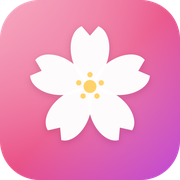
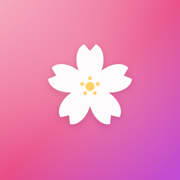
Fix Android installation guide and offline shortcut branding (#21)

diff --git a/e2e/install.spec.ts b/e2e/install.spec.ts
@@ -1,0 +1,92 @@
+import { test, expect } from '@playwright/test';
+
+test.describe('Android install guide and offline branding', () => {
+  test.use({
+    serviceWorkers: 'allow',
+    userAgent: 'Mozilla/5.0 (Linux; Android 15; SM-S921N) AppleWebKit/537.36 (KHTML, like Gecko) Chrome/142.0.0.0 Mobile Safari/537.36',
+    viewport: { width: 360, height: 780 },
+    isMobile: true,
+  });
+
+  test.afterEach(async ({ context }) => {
+    await context.setOffline(false);
+  });
+
+  test.beforeEach(async ({ context }) => {
+    // Installation checks never use member data or write to the backend.
+    await context.route('**/*', route => new URL(route.request().url()).origin === 'http://127.0.0.1:5181'
+      ? route.continue() : route.abort());
+  });
+
+  test('uses the current Chrome menu and preserves the iPhone instructions', async ({ page }) => {
+    await page.goto('/install');
+    await expect(page.getByRole('tab', { name: '안드로이드' })).toHaveAttribute('aria-selected', 'true');
+    await expect(page.getByText('[설치 및 바로가기 만들기]를 누릅니다.', { exact: true })).toBeVisible();
+    await expect(page.getByText(/주소창에 \[오프라인\]/)).toBeVisible();
+    await expect(page.getByText(/회색 V 또는 예전 아이콘/)).toBeVisible();
+    expect(await page.evaluate(() => document.documentElement.scrollWidth <= window.innerWidth)).toBe(true);
+    await page.getByRole('tab', { name: /아이폰/ }).click();
+    await expect(page.getByText('목록을 아래로 내려 [홈 화면에 추가]를 선택합니다.').first()).toBeVisible();
+    await page.screenshot({ path: 'test-results/install-iphone.png', fullPage: true });
+    await page.getByRole('tab', { name: '안드로이드' }).click();
+    await expect(page.getByRole('tab', { name: '안드로이드' })).toHaveAttribute('aria-selected', 'true');
+    await page.screenshot({ path: 'test-results/install-android.png', fullPage: true, animations: 'disabled' });
+  });
+
+  test('manifest and all logo sizes load online and offline without visiting each icon', async ({ page, context }) => {
+    const errors: string[] = [];
+    page.on('pageerror', error => errors.push(error.message));
+    await page.goto('/install');
+    await page.evaluate(async () => {
+      await navigator.serviceWorker.ready;
+      if (!navigator.serviceWorker.controller) await new Promise<void>(resolve =>
+        navigator.serviceWorker.addEventListener('controllerchange', () => resolve(), { once: true }));
+    });
+    const manifestPath = await page.locator('link[rel="manifest"]').getAttribute('href');
+    expect(manifestPath).toBeTruthy();
+    const cdp = await context.newCDPSession(page);
+    const parsed = await cdp.send('Page.getAppManifest');
+    expect(parsed.errors).toEqual([]);
+    const manifest = JSON.parse(parsed.data!);
+    expect(manifest.start_url).toBe('/?source=pwa');
+    expect(manifest.scope).toBe('/');
+    expect(manifest.icons.map((icon: { sizes: string }) => icon.sizes)).toEqual(['192x192', '512x512', '192x192', '512x512']);
+    const linkedIcons = await page.locator('link[rel="icon"], link[rel="apple-touch-icon"]').evaluateAll(links => links.map(link => link.getAttribute('href')!));
+    const paths = [...new Set([manifestPath!, ...linkedIcons, ...manifest.icons.map((icon: { src: string }) => icon.src)])];
+    await expect.poll(() => page.evaluate(async paths => {
+      const cache = await caches.open('ccg-branding-20261115');
+      return (await Promise.all(paths.map(path => cache.match(path)))).every(Boolean);
+    }, paths)).toBe(true);
+    // Reload under worker control to cache the app shell, without opening icon URLs.
+    await page.reload();
+    await expect(page.getByRole('heading', { level: 1 })).toBeVisible();
+    // Fetch only after offline, proving installation warmed otherwise unvisited assets.
+    await context.setOffline(true);
+    const results = await page.evaluate(async paths => Promise.all(paths.map(async path => {
+      const response = await fetch(path);
+      const type = response.headers.get('content-type')!;
+      if (type.includes('json')) return { path, status: response.status, name: (await response.json()).name };
+      const bitmap = await createImageBitmap(await response.blob());
+      const canvas = document.createElement('canvas');
+      canvas.width = bitmap.width; canvas.height = bitmap.height;
+      const ctx = canvas.getContext('2d')!; ctx.drawImage(bitmap, 0, 0);
+      const pixels = ctx.getImageData(0, 0, bitmap.width, bitmap.height).data;
+      let opaque = true;
+      for (let i = 3; i < pixels.length; i += 4) if (pixels[i] !== 255) opaque = false;
+      return { path, status: response.status, width: bitmap.width, height: bitmap.height, opaque };
+    })), paths);
+    for (const result of results) {
+      expect(result.status).toBe(200);
+      if ('name' in result) expect(result.name).toBe('춘천과팅');
+      else {
+        const expectedSize = result.path.includes('apple-touch') ? 180 : Number(result.path.match(/-(\d+)\.png/)![1]);
+        expect(result.width).toBe(expectedSize);
+        expect(result.height).toBe(expectedSize);
+        if (result.path.includes('maskable') || result.path.includes('apple-touch')) expect(result.opaque).toBe(true);
+      }
+    }
+    await page.reload();
+    await expect(page.getByRole('heading', { level: 1 })).toContainText('한 번에 열립니다.');
+    expect(errors).toEqual([]);
+  });
+});

diff --git a/public/sw.js b/public/sw.js
@@ -7,28 +7,53 @@
  * 안전 원칙 (운영 중인 웹앱을 깨뜨리지 않기 위함)
  *  - HTML(내비게이션)은 항상 네트워크 먼저 → 최신 코드가 늘 우선.
  *    오래된 JS를 캐시로 잘못 내려서 흰 화면이 뜨는 사고를 막는다.
- *  - 파일명에 해시가 붙는 정적 자원(/assets/*)만 캐시-우선.
+ *  - 정적 자원은 캐시-우선, 설치 정보·로고는 미리 저장하고 네트워크 우선.
  *  - Supabase API, 폰트 CDN 등 외부(cross-origin) 요청은 절대 건드리지 않음.
- *  - 버전(CACHE)을 올리면 이전 캐시는 전부 삭제된다.
+ *  - 로고 캐시만 별도 교체해 기존 화면과 다른 캐시는 보존한다.
  */
 
 const CACHE = 'ccg-v1';
 const OFFLINE_INDEX = '/index.html';
+// Keep branding independent of the app shell so an icon update cannot discard
+// resources still needed by an open page. Versioned URLs also refresh browser caches.
+const BRAND_CACHE = 'ccg-branding-20261115';
+const BRAND_ASSETS = [
+  '/manifest.webmanifest', '/favicon-32.png', '/apple-touch-icon.png',
+  '/icons/icon-192.png', '/icons/icon-512.png',
+  '/icons/maskable-192.png', '/icons/maskable-512.png',
+];
+const BRAND_URLS = BRAND_ASSETS.flatMap((path) => [path, `${path}?v=20261115`]);
+
+function isBrandResponse(path, response) {
+  const type = response.headers.get('content-type') || '';
+  return response.ok && (path.endsWith('.webmanifest')
+    ? /application\/(manifest\+json|json)/i.test(type)
+    : type.startsWith('image/png'));
+}
 
 self.addEventListener('install', (event) => {
   // 새 워커를 즉시 활성화 (대기하지 않음)
   self.skipWaiting();
   event.waitUntil(
-    caches.open(CACHE).then((c) => c.add(OFFLINE_INDEX)).catch(() => undefined)
+    Promise.allSettled([
+      caches.open(CACHE).then((c) => c.add(OFFLINE_INDEX)),
+      ...BRAND_URLS.map(async (path) => {
+        const response = await fetch(path, { cache: 'reload' });
+        if (isBrandResponse(path.split('?')[0], response)) {
+          const cache = await caches.open(BRAND_CACHE);
+          await cache.put(path, response);
+        }
+      }),
+    ])
   );
 });
 
 self.addEventListener('activate', (event) => {
   event.waitUntil(
     (async () => {
-      // 이전 버전 캐시 정리
+      // Do not delete another application's caches or the current app shell.
       const keys = await caches.keys();
-      await Promise.all(keys.filter((k) => k !== CACHE).map((k) => caches.delete(k)));
+      await Promise.all(keys.filter((k) => k.startsWith('ccg-branding-') && k !== BRAND_CACHE).map((k) => caches.delete(k)));
       await self.clients.claim();
     })()
   );
@@ -41,6 +66,25 @@ self.addEventListener('fetch', (event) => {
   const url = new URL(req.url);
   // 같은 출처만 처리 (Supabase·폰트 등 외부는 브라우저 기본 동작에 맡김)
   if (url.origin !== self.location.origin) return;
+
+  // Cache the manifest and every icon before the user opens the install menu.
+  // Prefer fresh branding online, with a PNG/JSON fallback if the network fails.
+  if (BRAND_ASSETS.includes(url.pathname)) {
+    event.respondWith((async () => {
+      const cache = await caches.open(BRAND_CACHE);
+      try {
+        const fresh = await fetch(req);
+        if (isBrandResponse(url.pathname, fresh)) {
+          await cache.put(req, fresh.clone()).catch(() => undefined);
+          return fresh;
+        }
+        return (await cache.match(req)) || fresh;
+      } catch {
+        return (await cache.match(req)) || (await cache.match(url.pathname)) || Response.error();
+      }
+    })());
+    return;
+  }
 
   // 1) 페이지 이동(HTML) → 네트워크 우선, 실패 시 캐시 index 폴백
   if (req.mode === 'navigate') {
@@ -63,18 +107,20 @@ self.addEventListener('fetch', (event) => {
 
   // 2) 해시가 붙은 정적 자원(/assets/…, /icons/…) → 캐시 우선 + 백그라운드 갱신
   if (url.pathname.startsWith('/assets/') || url.pathname.startsWith('/icons/')) {
+    const network = fetch(req).then(async (res) => {
+      if (res.status === 200) {
+        // Clone before handing the body to the page, and finish cache writes
+        // before ending the worker event (including cached-response refreshes).
+        const copy = res.clone();
+        await caches.open(CACHE).then((c) => c.put(req, copy)).catch(() => undefined);
+      }
+      return res;
+    }).catch(() => undefined);
+    event.waitUntil(network.then(() => undefined));
     event.respondWith(
       (async () => {
         const cached = await caches.match(req);
-        const network = fetch(req)
-          .then((res) => {
-            if (res && res.status === 200) {
-              caches.open(CACHE).then((c) => c.put(req, res.clone()));
-            }
-            return res;
-          })
-          .catch(() => cached);
-        return cached || network;
+        return cached || (await network) || Response.error();
       })()
     );
   }

diff --git a/src/i18n/ja.ts b/src/i18n/ja.ts
@@ -1066,12 +1066,13 @@ export const ja: Dict = {
     androidChrome: 'Google Chrome',
     androidChromeSub: 'いちばん多い方法です',
     androidChromeSteps: [
-      { text: 'Chrome で春川合コンのアドレスを開きます。' },
-      { text: '右上の [⋮] ボタンを押します。' },
-      { text: '[ホーム画面に追加]または[アプリをインストール]を押します。', hint: 'どちらか一方だけ表示されます。結果は同じです。' },
-      { text: '[インストール]を押すとホーム画面にアイコンができます。' },
+      { text: "インターネットに接続して Chrome で春川合コンを開きます。", hint: "アドレスバーに「オフライン」と表示されたら、保存ページを閉じて上のアドレスを新しいタブで開いてください。" },
+      { text: "右上の [⋮] を押します。" },
+      { text: "[インストールとショートカットの作成] を押します。", hint: "Chrome のバージョンによっては [ホーム画面に追加] や [アプリをインストール] と表示されます。" },
+      { text: "[インストール] または [ショートカットを作成] を選びます。", hint: "インストールするとアプリ形式で、ショートカットは Chrome で開きます。インストールできない場合はオンラインで再読み込みするか、ショートカットを選んでください。" },
+      { text: "ピンクの花のロゴと名前を確認し、[インストール] または [追加] を押します。" },
     ] as { text: string; hint?: string }[],
-    androidChromeTip: '「アプリをインストール」と出る理由 — 春川合コンはアプリのように動くよう作られているため、Chrome がインストールを案内します。ストアを経由せずアイコンが追加されるだけで、保存容量もほとんど使いません。',
+    androidChromeTip: "灰色の V や古いアイコンが出る場合は、既存のショートカットを削除し、オンラインの新しいタブから作り直してください。ショートカット右下の小さな Chrome マークは正常です。",
     samsungBadge: 'Samsung',
     samsung: 'Samsung Internet',
     samsungSub: 'Galaxy の標準ブラウザ',

diff --git a/src/i18n/ko.ts b/src/i18n/ko.ts
@@ -1076,12 +1076,13 @@ export const ko = {
     androidChrome: '구글 크롬',
     androidChromeSub: '가장 많이 쓰는 방법이에요',
     androidChromeSteps: [
-      { text: '크롬에서 춘천과팅 주소를 엽니다.' },
-      { text: '오른쪽 위 [⋮] 버튼을 누릅니다.' },
-      { text: '[홈 화면에 추가] 또는 [앱 설치]를 누릅니다.', hint: '둘 중 하나만 보여요. 어느 쪽이든 결과는 같습니다.' },
-      { text: '[설치]를 누르면 홈 화면에 아이콘이 생깁니다.' },
+      { text: "인터넷에 연결한 뒤 크롬에서 춘천과팅 주소를 엽니다.", hint: "주소창에 [오프라인]이 보이면 저장된 페이지를 닫고, 위 주소를 복사해 새 탭에서 열어주세요." },
+      { text: "오른쪽 위 [⋮] 버튼을 누릅니다." },
+      { text: "[설치 및 바로가기 만들기]를 누릅니다.", hint: "크롬 버전에 따라 [홈 화면에 추가] 또는 [앱 설치]로 보일 수 있어요." },
+      { text: "[설치] 또는 [바로가기 만들기]를 선택합니다.", hint: "설치는 앱처럼, 바로가기는 크롬에서 열려요. [이 앱을 설치할 수 없습니다]가 뜨면 온라인 상태에서 새로고침한 뒤 다시 시도하거나 [바로가기 만들기]를 선택해주세요." },
+      { text: "분홍색 꽃 로고와 이름을 확인하고 [설치] 또는 [추가]를 누릅니다." },
     ] as { text: string; hint?: string }[],
-    androidChromeTip: '[앱 설치]라고 뜨는 이유 — 춘천과팅은 앱처럼 실행되도록 만들어져 있어서 크롬이 설치 안내를 대신 보여줍니다. 플레이스토어를 거치지 않고 홈 화면에 아이콘만 생기며 저장 공간도 거의 쓰지 않아요.',
+    androidChromeTip: "회색 V 또는 예전 아이콘이 보이면 기존 바로가기를 삭제한 뒤, 인터넷에 연결된 새 탭에서 춘천과팅을 열고 다시 만들어주세요. 바로가기 오른쪽 아래의 작은 크롬 표시는 정상이에요.",
     samsungBadge: '삼성',
     samsung: '삼성 인터넷',
     samsungSub: '갤럭시 기본 브라우저',

diff --git a/src/i18n/zh.ts b/src/i18n/zh.ts
@@ -1066,12 +1066,13 @@ export const zh: Dict = {
     androidChrome: '谷歌 Chrome',
     androidChromeSub: '最常用的方法',
     androidChromeSteps: [
-      { text: '在 Chrome 中打开春川联谊网址。' },
-      { text: '点击右上角的 [⋮] 按钮。' },
-      { text: '点击[添加到主屏幕]或[安装应用]。', hint: '两者只会显示其中之一，结果相同。' },
-      { text: '点击[安装]，主屏幕上就会出现图标。' },
+      { text: "连接网络后，在 Chrome 中打开春川联谊。", hint: "如果地址栏显示“离线”，请关闭已保存的页面，将上方地址复制到新标签页打开。" },
+      { text: "点击右上角的 [⋮]。" },
+      { text: "点击[安装和创建快捷方式]。", hint: "部分 Chrome 版本可能显示[添加到主屏幕]或[安装应用]。" },
+      { text: "选择[安装]或[创建快捷方式]。", hint: "安装后以应用形式打开，快捷方式在 Chrome 中打开。如果无法安装，请联网刷新后重试，或选择创建快捷方式。" },
+      { text: "确认粉色花朵标志和名称后，点击[安装]或[添加]。" },
     ] as { text: string; hint?: string }[],
-    androidChromeTip: '为什么显示"安装应用" —— 春川联谊被设计成可以像应用一样运行，所以 Chrome 会提示安装。它不经过应用商店，只是添加一个图标，几乎不占存储空间。',
+    androidChromeTip: "如果显示灰色 V 或旧图标，请删除原快捷方式，在联网的新标签页中打开网站后重新创建。快捷方式右下角的小 Chrome 标志属于正常显示。",
     samsungBadge: '三星',
     samsung: '三星浏览器',
     samsungSub: 'Galaxy 的默认浏览器',

diff --git a/src/i18n/en.ts b/src/i18n/en.ts
@@ -1066,12 +1066,13 @@ export const en: Dict = {
     androidChrome: 'Google Chrome',
     androidChromeSub: 'The most common route',
     androidChromeSteps: [
-      { text: 'Open Chuncheon Gating in Chrome.' },
-      { text: 'Tap the [⋮] button at the top right.' },
-      { text: 'Tap [Add to Home screen] or [Install app].', hint: 'You will see one or the other. Either gives the same result.' },
-      { text: 'Tap [Install] and the icon appears on your home screen.' },
+      { text: "Connect to the internet and open Chuncheon Gating in Chrome.", hint: "If the address bar says Offline, close the saved page and paste the address above into a new tab." },
+      { text: "Tap [⋮] at the top right." },
+      { text: "Tap [Install and create shortcut].", hint: "Older Chrome versions may show [Add to Home screen] or [Install app]." },
+      { text: "Choose [Install] or [Create shortcut].", hint: "Install opens an app window; a shortcut opens Chrome. If installation is unavailable, refresh while online and try again, or choose [Create shortcut]." },
+      { text: "Check the pink flower logo and name, then tap [Install] or [Add]." },
     ] as { text: string; hint?: string }[],
-    androidChromeTip: 'Why it says "Install app" — Chuncheon Gating is built to run like an app, so Chrome offers to install it. It never goes through the Play Store, only an icon is added, and it uses almost no storage.',
+    androidChromeTip: "If you see a gray V or an old icon, remove the existing shortcut and create it again from a new online tab. The small Chrome badge on a shortcut is normal.",
     samsungBadge: 'Samsung',
     samsung: 'Samsung Internet',
     samsungSub: 'The default browser on Galaxy phones',

diff --git a/index.html b/index.html
@@ -7,10 +7,12 @@
     <meta name="description" content="춘천과팅 - 강원대, 한림대, 성심대, 춘교대, 송곡대 학생을 위한 과팅 매칭" />
 
     <!-- PWA -->
-    <link rel="manifest" href="/manifest.webmanifest" />
-    <link rel="icon" type="image/png" sizes="32x32" href="/favicon-32.png" />
-    <link rel="icon" type="image/png" sizes="192x192" href="/icons/icon-192.png" />
-    <link rel="apple-touch-icon" href="/apple-touch-icon.png" />
+    <link rel="manifest" href="/manifest.webmanifest?v=20261115" />
+    <link rel="icon" type="image/png" sizes="32x32" href="/favicon-32.png?v=20261115" />
+    <link rel="icon" type="image/png" sizes="192x192" href="/icons/icon-192.png?v=20261115" />
+    <link rel="icon" type="image/png" sizes="512x512" href="/icons/icon-512.png?v=20261115" />
+    <link rel="apple-touch-icon" sizes="180x180" href="/apple-touch-icon.png?v=20261115" />
+    <link rel="preload" as="image" href="/icons/icon-192.png?v=20261115" />
     <meta name="mobile-web-app-capable" content="yes" />
     <meta name="apple-mobile-web-app-capable" content="yes" />
     <meta name="apple-mobile-web-app-status-bar-style" content="default" />

diff --git a/docs/ANDROID_INSTALL_FIX.md b/docs/ANDROID_INSTALL_FIX.md
@@ -1,0 +1,26 @@
+# Android installation and shortcut branding — 2026-11-15
+
+## Finding
+The production manifest and six PNG icons returned HTTP 200 with correct types and dimensions. In a fresh Chrome session, the existing worker cached only the HTML shell before installation. Going offline made the manifest and unvisited maskable icon requests fail. This is consistent with the user's screenshots showing Chrome's Offline page, but does not prove the cause of the individual handset's gray V shortcut. Chrome downloaded pages can also have different installation behavior from the live origin.
+
+## Change
+- Use Chrome's current “설치 및 바로가기 만들기” menu name in all four languages, retaining older labels as a version-dependent fallback. Explain install vs shortcut, offline saved pages, removing/recreating stale icons, and the normal Chrome badge.
+- Keep the existing flower brand, PNG dimensions, manifest start URL and scope. Version manifest/icon references, add the 512px HTML icon and preload 192px. Export the existing opaque flower artwork at 180px for Apple Touch Icon.
+- Precache the manifest and all logo sizes in an independent branding cache, with validated content types and network-first updates. Individual download failures do not prevent worker installation. Preserve current app resources and unrelated caches.
+- Fix the existing static-resource cache race: clone and finish cache writes before returning the response; keep background updates alive with waitUntil. This was exposed by an offline reload test.
+- No database, authorization, member-data, billing, or matching changes.
+
+## Verification
+- Typecheck, 105 unit tests and Vite build pass.
+- Existing 43 browser regression scenarios passed with synthetic/mocked backend data (signup, verification, teams, profile photos, acquaintance avoidance, matching UI, admin and advertising).
+- Two new Android-emulated Chrome checks pass: current menu and iOS instructions; valid manifest/start URL/scope; all linked icons decode at expected sizes offline, opaque maskable/Apple images; offline install guide reload without a page error.
+- Real Samsung launcher installation cannot be exercised from desktop emulation. Final handset confirmation needs a fresh online tab and a newly created shortcut. Existing OS shortcut artwork is not forcibly replaceable by website JavaScript.
+
+## Recovery and rollback
+Remove the old gray shortcut only (do not clear account/browser storage), open the live URL in a new Chrome tab with an internet connection, and use Install and create shortcut. Check the flower icon before confirming.
+Revert this commit to restore the prior guide and worker. The application shell cache and original unversioned icon URLs remain compatible. No database rollback is needed.
+
+## References
+- https://support.google.com/chrome/answer/15085120?co=GENIE.Platform%3DAndroid
+- https://support.google.com/chrome/answer/9658361?co=GENIE.Platform%3DAndroid
+- https://developer.chrome.com/docs/lighthouse/pwa/installable-manifest
